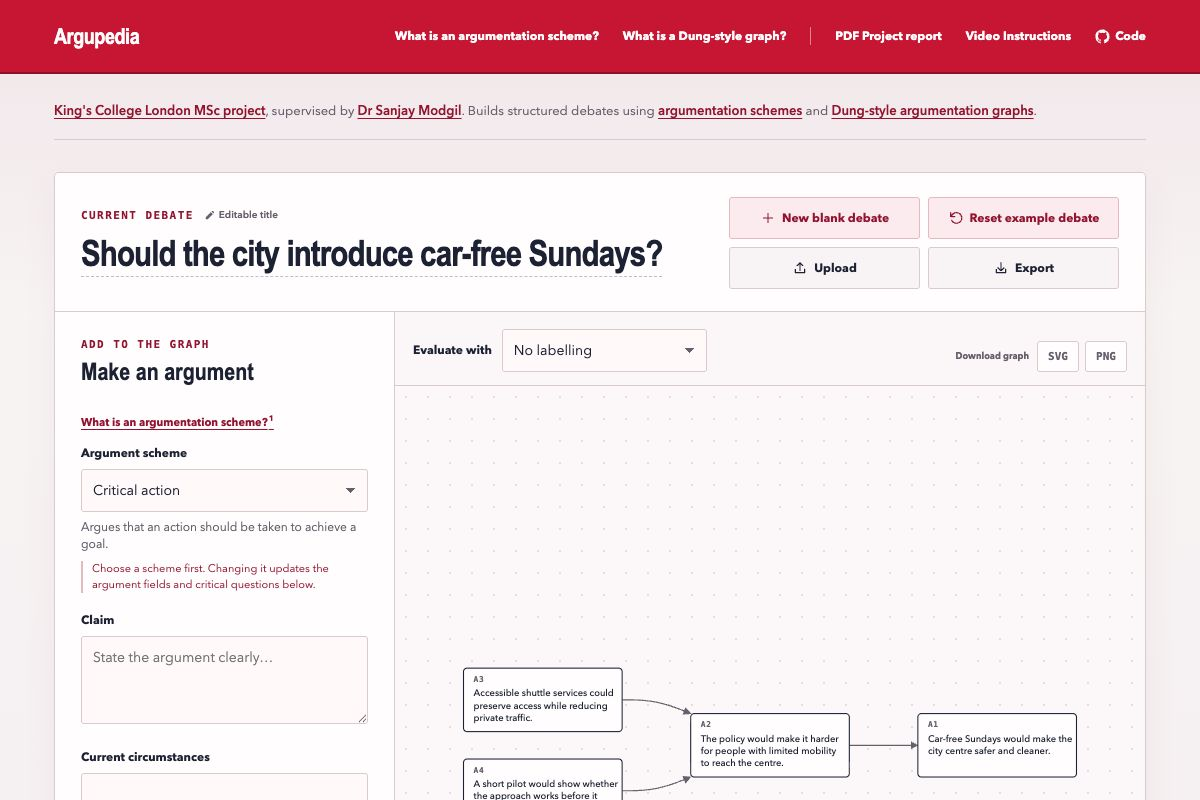
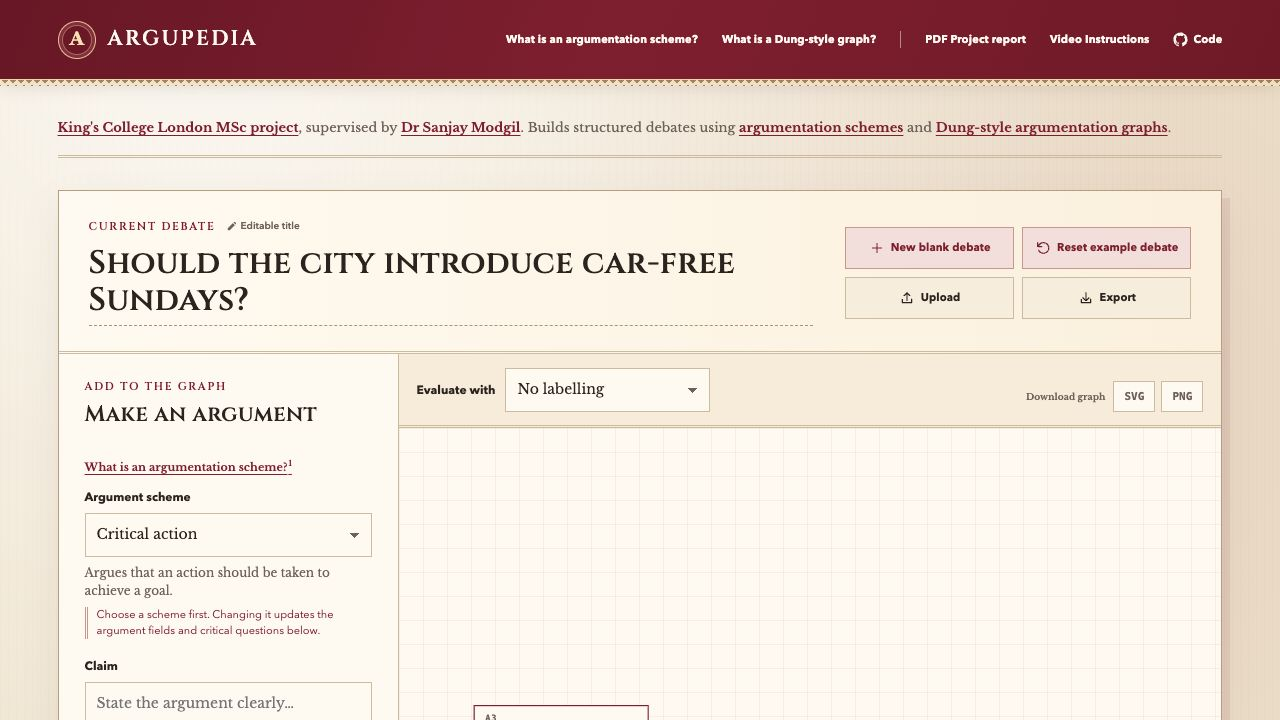
Give Argupedia a classical rhetoric identity

diff --git a/src/styles.css b/src/styles.css
@@ -1,114 +1,120 @@
 :root {
-  --paper: #f5f0f1;
-  --white: #fffdfd;
-  --ink: #1c2233;
-  --muted: #675f6c;
-  --line: #dac9cd;
+  --paper: #eee2cb;
+  --white: #fffaf0;
+  --ink: #2b231e;
+  --muted: #6e6157;
+  --line: #cdbb9d;
   --red: #c8102e;
-  --red-dark: #94112d;
+  --red-dark: #7f1d2d;
+  --bronze: #94652d;
+  --bronze-pale: #ead5aa;
   --accepted: #27724b;
   --accepted-pale: #dcefe4;
   --rejected: #9b3939;
   --rejected-pale: #f6dede;
   --undecided: #987828;
   --undecided-pale: #f7edc9;
-  --display: "Arial Narrow", "Avenir Next Condensed", "Helvetica Neue", sans-serif;
-  --body: "Avenir Next", Avenir, "Helvetica Neue", Arial, sans-serif;
+  --display: "Cinzel", Georgia, serif;
+  --body: "Libre Baskerville", Georgia, serif;
+  --ui: "Avenir Next", Avenir, "Helvetica Neue", Arial, sans-serif;
   --mono: ui-monospace, SFMono-Regular, Menlo, Consolas, monospace;
 }
 
 * { box-sizing: border-box; }
 html { scroll-behavior: smooth; }
-body { margin: 0; color: var(--ink); background: linear-gradient(180deg, #f0e5e8 0, #f7f3f3 310px, var(--paper) 760px); font-family: var(--body); line-height: 1.5; }
+body { margin: 0; color: var(--ink); background-color: var(--paper); background-image: radial-gradient(circle at 16% 0, rgba(255,255,255,.75), transparent 38%), radial-gradient(circle at 83% 18%, rgba(127,29,45,.07), transparent 32%), repeating-linear-gradient(90deg, rgba(96,70,43,.018) 0 1px, transparent 1px 8px); font-family: var(--body); line-height: 1.55; }
 button, input, textarea, select { font: inherit; }
 button, a { -webkit-tap-highlight-color: transparent; }
 a { color: var(--red-dark); text-decoration-thickness: 1px; text-underline-offset: 3px; }
 a:hover { color: var(--red); }
 :focus-visible { outline: 3px solid rgba(200, 16, 46, .3); outline-offset: 3px; }
 
-.site-header { min-height: 74px; display: flex; align-items: center; justify-content: space-between; gap: 30px; padding: 12px clamp(22px, 4.5vw, 70px); background: var(--red); border-bottom: 2px solid #8f0d28; position: relative; z-index: 20; }
+.site-header { min-height: 80px; display: flex; align-items: center; justify-content: space-between; gap: 30px; padding: 12px clamp(22px, 4.5vw, 70px); background: linear-gradient(110deg, #681624, var(--red-dark) 48%, #701825); border-bottom: 1px solid var(--bronze-pale); position: relative; z-index: 20; box-shadow: 0 5px 18px rgba(67,30,22,.16); }
+.site-header::after { content: ""; position: absolute; left: 0; right: 0; bottom: -7px; height: 6px; background: linear-gradient(135deg, var(--bronze) 25%, transparent 25%) -3px 0/8px 8px, linear-gradient(225deg, var(--bronze) 25%, transparent 25%) -3px 0/8px 8px, linear-gradient(315deg, var(--bronze) 25%, transparent 25%) 0 0/8px 8px, linear-gradient(45deg, var(--bronze) 25%, #f1e3c5 25%) 0 0/8px 8px; opacity: .75; }
 .brand-block { display: flex; align-items: center; min-width: 0; }
-.wordmark { font: 800 22px/1 var(--display); letter-spacing: -.02em; color: var(--white); text-decoration: none; }
+.brand-seal { width: 38px; height: 38px; flex: 0 0 38px; margin-right: 12px; display: grid; place-items: center; color: #f6dfae; border: 1px solid rgba(246,223,174,.85); border-radius: 50%; box-shadow: inset 0 0 0 3px rgba(127,29,45,.8), inset 0 0 0 4px rgba(246,223,174,.42); font: 600 19px/1 var(--display); }
+.wordmark { font: 600 21px/1 var(--display); letter-spacing: .115em; text-transform: uppercase; color: var(--white); text-decoration: none; }
 .wordmark:hover { color: var(--white); }
 .header-navigation { display: flex; align-items: center; min-width: 0; }
 .site-header nav { display: flex; align-items: center; gap: 24px; }
 .concept-nav { margin-right: 24px; padding-right: 24px; border-right: 1px solid rgba(255,255,255,.48); }
-.site-header nav a { color: var(--white); text-decoration: none; font-size: 12px; font-weight: 650; white-space: nowrap; }
+.site-header nav a { color: var(--white); text-decoration: none; font-family: var(--ui); font-size: 11px; font-weight: 650; letter-spacing: .015em; white-space: nowrap; }
 .site-header nav a:hover { text-decoration: underline; }
 .github-link { display: inline-flex; align-items: center; gap: 5px; }
 .github-link svg { width: 15px; height: 15px; fill: currentColor; }
 
-.section-label { margin: 0 0 20px; color: var(--red-dark); font: 700 11px/1.2 var(--mono); text-transform: uppercase; letter-spacing: .13em; }
-.button { border: 1px solid transparent; min-height: 42px; padding: 10px 17px; border-radius: 3px; cursor: pointer; font-size: 13px; font-weight: 700; text-decoration: none; display: inline-flex; align-items: center; justify-content: center; transition: background .15s, border-color .15s, transform .15s; }
+.section-label { margin: 0 0 20px; color: var(--red-dark); font: 600 11px/1.2 var(--display); text-transform: uppercase; letter-spacing: .16em; }
+.button { border: 1px solid transparent; min-height: 42px; padding: 10px 17px; border-radius: 0; cursor: pointer; font-family: var(--ui); font-size: 13px; font-weight: 700; text-decoration: none; display: inline-flex; align-items: center; justify-content: center; transition: background .15s, border-color .15s, transform .15s; }
 .button-primary { color: var(--white); background: var(--red); }
 .button-primary:hover { color: var(--white); background: var(--red-dark); }
 .button-quiet { color: var(--ink); background: var(--white); border-color: var(--line); }
 .button-quiet:hover { color: var(--red-dark); border-color: var(--red); }
-.button-replace { color: var(--red-dark); background: #fbebee; border-color: #e7b7c0; }
-.button-replace:hover { color: var(--red-dark); background: #f7dce2; border-color: var(--red); }
-.button-file { color: var(--ink); background: #f8f3f4; border-color: var(--line); }
+.button-replace { color: var(--red-dark); background: #f2dfda; border-color: #c9958e; }
+.button-replace:hover { color: var(--red-dark); background: #ead0c9; border-color: var(--red); }
+.button-file { color: var(--ink); background: #f7eddc; border-color: var(--line); }
 .button-file:hover { color: var(--red-dark); background: var(--white); border-color: var(--red); }
 .button-full { width: 100%; margin-top: 8px; }
 
-.workspace { padding: 28px clamp(18px, 4.5vw, 70px) 48px; max-width: 1680px; margin: auto; }
-.project-context { margin: 0 0 32px; padding: 0 0 17px; color: var(--muted); border-bottom: 1px solid var(--line); font-size: 13px; }
+.workspace { padding: 38px clamp(18px, 4.5vw, 70px) 54px; max-width: 1680px; margin: auto; }
+.project-context { margin: 0 0 32px; padding: 0 0 17px; color: var(--muted); border-bottom: 3px double var(--line); font-size: 13px; }
 .project-context p { margin: 0; }
 .project-context a { font-weight: 600; }
-.debate-console { background: var(--white); border: 1px solid var(--line); border-radius: 5px; box-shadow: 0 10px 30px rgba(112, 20, 43, .055); overflow: hidden; }
-.workspace-header { display: flex; align-items: center; justify-content: space-between; gap: 32px; padding: 24px 26px 22px; border-bottom: 1px solid var(--line); background: var(--white); }
+.debate-console { position: relative; background: var(--white); border: 1px solid #b79e7d; border-radius: 0; box-shadow: 8px 8px 0 rgba(127,29,45,.09), 0 14px 36px rgba(73,48,31,.08); overflow: hidden; }
+.debate-console::before { content: ""; position: absolute; inset: 5px; z-index: 5; border: 1px solid rgba(148,101,45,.24); pointer-events: none; }
+.workspace-header { position: relative; z-index: 6; display: flex; align-items: center; justify-content: space-between; gap: 32px; padding: 28px 30px 25px; border-bottom: 3px double var(--line); background: linear-gradient(90deg, #fffaf0, #fbf0dc); }
 .workspace-header .section-label { margin-bottom: 10px; }
 .debate-title-meta { display: flex; align-items: center; gap: 10px; margin-bottom: 10px; }
 .debate-title-meta .section-label { margin: 0; }
-.editable-title-hint { display: inline-flex; align-items: center; gap: 4px; color: var(--muted); font-size: 10px; font-weight: 600; }
+.editable-title-hint { display: inline-flex; align-items: center; gap: 4px; color: var(--muted); font-family: var(--ui); font-size: 10px; font-weight: 600; }
 .editable-title-hint svg { width: 11px; height: 11px; fill: currentColor; }
-#workspace-title { min-width: 260px; margin: 0; padding-bottom: 3px; font: 750 clamp(27px, 3vw, 42px)/1.12 var(--display); letter-spacing: -.025em; border-bottom: 1px dashed #b7c0cc; cursor: text; }
+#workspace-title { min-width: 260px; margin: 0; padding-bottom: 5px; font: 600 clamp(24px, 2.5vw, 36px)/1.18 var(--display); letter-spacing: .015em; border-bottom: 1px dashed #af9271; cursor: text; }
 #workspace-title:hover, #workspace-title:focus { border-bottom-color: var(--red); }
 .file-actions { display: grid; grid-template-columns: repeat(2, minmax(155px, 1fr)); gap: 8px; width: min(100%, 390px); margin-left: auto; }
-.file-actions .button { width: 100%; gap: 6px; padding-inline: 8px; font-size: 12px; }
+.file-actions .button { width: 100%; gap: 6px; padding-inline: 8px; font-size: 11px; letter-spacing: .01em; }
 .file-actions .button svg { width: 16px; height: 16px; flex: 0 0 auto; fill: none; stroke: currentColor; stroke-width: 1.8; stroke-linecap: round; stroke-linejoin: round; }
 .workspace-grid { display: grid; grid-template-columns: minmax(265px, 340px) minmax(0, 1fr); gap: 0; align-items: stretch; }
-.composer, .graph-panel, .argument-list-section { background: var(--white); }
+.composer, .graph-panel, .argument-list-section { position: relative; z-index: 6; background: var(--white); }
 .composer { padding: 26px; }
 .composer { border-right: 1px solid var(--line); }
-.panel-heading h3 { margin: 0 0 24px; font: 750 24px/1.1 var(--display); }
+.panel-heading h3 { margin: 0 0 24px; font: 600 22px/1.25 var(--display); letter-spacing: .02em; }
 .panel-heading .section-label { margin-bottom: 8px; }
 .scheme-guide-link { display: inline-block; margin-bottom: 2px; color: var(--red-dark); font-size: 11px; font-weight: 650; }
 .scheme-guide-link sup { margin-left: 1px; font-size: .72em; text-decoration: none; }
 .scheme-guide-link + label { margin-top: 10px; }
-label { display: block; color: var(--ink); font-size: 12px; font-weight: 700; margin: 17px 0 7px; }
-textarea, input:not([type="checkbox"]), select { width: 100%; color: var(--ink); background: #fff9fa; border: 1px solid var(--line); border-radius: 3px; padding: 10px 11px; font-size: 14px; }
+label { display: block; color: var(--ink); font-family: var(--ui); font-size: 12px; font-weight: 700; margin: 17px 0 7px; }
+textarea, input:not([type="checkbox"]), select { width: 100%; color: var(--ink); background: #fffaf0; border: 1px solid var(--line); border-radius: 0; padding: 10px 11px; font-size: 14px; }
 textarea { resize: vertical; min-height: 88px; }
 select { appearance: none; background-image: linear-gradient(45deg,transparent 50%,var(--muted) 50%),linear-gradient(135deg,var(--muted) 50%,transparent 50%); background-position: calc(100% - 16px) 50%,calc(100% - 11px) 50%; background-size: 5px 5px; background-repeat: no-repeat; padding-right: 28px; }
 .field-help { margin: 7px 0 15px; color: var(--muted); font-size: 12px; line-height: 1.45; }
-.structure-note { margin: -7px 0 18px; padding-left: 9px; color: var(--red-dark); border-left: 2px solid #e7b7c0; font-size: 11px; line-height: 1.45; }
+.structure-note { margin: -7px 0 18px; padding-left: 9px; color: var(--red-dark); border-left: 3px double #c9958e; font-family: var(--ui); font-size: 11px; line-height: 1.45; }
 .check-row { display: flex; align-items: flex-start; gap: 9px; font-weight: 500; line-height: 1.35; cursor: pointer; }
 .check-row input { margin-top: 2px; accent-color: var(--red); }
 
 .graph-panel { min-height: 690px; display: grid; grid-template-rows: auto minmax(510px, 1fr) auto; overflow: hidden; }
-.graph-toolbar { min-height: 74px; padding: 13px 18px; display: flex; align-items: end; gap: 14px; border-bottom: 1px solid var(--line); background: #fbf6f7; }
+.graph-toolbar { min-height: 74px; padding: 13px 18px; display: flex; align-items: end; gap: 14px; border-bottom: 3px double var(--line); background: #f7ecd9; }
 .graph-toolbar label { margin: 0 0 5px; }
 .semantics-control { width: auto; display: flex; align-items: center; gap: 10px; }
 .semantics-control label { margin: 0; white-space: nowrap; }
 .semantics-control select { width: 205px; }
 .extension-control { width: 170px; }
 .graph-actions { display: flex; align-items: center; margin-left: auto; }
-.graph-view-controls { position: absolute; right: 15px; bottom: 15px; z-index: 2; display: flex; align-items: center; gap: 9px; padding: 5px 6px 5px 10px; background: rgba(255,255,255,.94); border: 1px solid var(--line); border-radius: 3px; box-shadow: 0 2px 8px rgba(21,34,56,.07); }
+.graph-view-controls { position: absolute; right: 15px; bottom: 15px; z-index: 2; display: flex; align-items: center; gap: 9px; padding: 5px 6px 5px 10px; background: rgba(255,250,240,.94); border: 1px solid var(--line); border-radius: 0; box-shadow: 3px 3px 0 rgba(127,29,45,.06); }
 .graph-control-divider { align-self: stretch; width: 1px; background: var(--line); }
 .graph-export-controls { display: flex; align-items: center; gap: 6px; }
 .graph-export-controls > span { margin-right: 2px; color: var(--muted); font-size: 9px; font-weight: 650; line-height: 1; white-space: nowrap; }
 .graph-export-controls .icon-button { height: 31px; }
 .graph-hint { align-self: center; margin-right: 4px; color: var(--muted); font-size: 10px; white-space: nowrap; }
-.icon-button { height: 37px; min-width: 42px; color: var(--muted); background: var(--white); border: 1px solid var(--line); border-radius: 3px; cursor: pointer; font: 700 11px/1 var(--mono); }
+.icon-button { height: 37px; min-width: 42px; color: var(--muted); background: var(--white); border: 1px solid var(--line); border-radius: 0; cursor: pointer; font: 700 11px/1 var(--mono); }
 .icon-button:hover { color: var(--red-dark); border-color: var(--red); }
-.graph-stage { position: relative; min-height: 510px; overflow: hidden; background-color: #fcf8f9; background-image: radial-gradient(circle, #ead8dc 1px, transparent 1.1px); background-size: 22px 22px; }
+.graph-stage { position: relative; min-height: 510px; overflow: hidden; background-color: #fffaf0; background-image: linear-gradient(rgba(148,101,45,.075) 1px, transparent 1px), linear-gradient(90deg, rgba(148,101,45,.075) 1px, transparent 1px); background-size: 24px 24px; }
 #debate-graph { display: block; width: 100%; height: 100%; min-height: 510px; cursor: grab; }
 #debate-graph:active { cursor: grabbing; }
-.argument-node rect { fill: var(--white); stroke: var(--ink); stroke-width: 1.5; }
+.argument-node rect { fill: var(--white); stroke: var(--red-dark); stroke-width: 1.5; }
 .argument-node.status-in rect { fill: var(--accepted-pale); stroke: var(--accepted); }
 .argument-node.status-out rect { fill: var(--rejected-pale); stroke: var(--rejected); }
 .argument-node.status-undec rect { fill: var(--undecided-pale); stroke: var(--undecided); }
 .node-id { font: 600 11px var(--mono); fill: var(--muted); letter-spacing: .08em; }
-.node-claim { font: 500 13px var(--body); fill: var(--ink); }
+.node-claim { font: 400 13px var(--body); fill: var(--ink); }
 .attack-edge { fill: none; stroke: var(--muted); stroke-width: 1.6; }
 .attack-edge.conflicting { stroke: var(--rejected); stroke-dasharray: 5 4; }
 #attack-arrow path { fill: var(--muted); }
@@ -117,14 +123,14 @@ select { appearance: none; background-image: linear-gradient(45deg,transparent 5
 .graph-empty p { margin: 0; font: 700 23px var(--display); }
 .graph-empty span { color: var(--muted); font-size: 13px; }
 .graph-busy { z-index: 3; color: var(--red-dark); font: 700 12px var(--mono); text-transform: uppercase; letter-spacing: .08em; }
-.results { min-height: 88px; padding: 15px 20px; border-top: 1px solid var(--line); background: var(--white); }
-.legend { display: flex; gap: 17px; color: var(--muted); font-size: 11px; }
+.results { min-height: 88px; padding: 15px 20px; border-top: 3px double var(--line); background: #fffaf0; }
+.legend { display: flex; gap: 17px; color: var(--muted); font-family: var(--ui); font-size: 11px; }
 .legend span { display: inline-flex; align-items: center; gap: 6px; }
 .legend i { width: 9px; height: 9px; border-radius: 50%; }
 .status-in { background: var(--accepted); }.status-out { background: var(--rejected); }.status-undec { background: var(--undecided); }
 #result-copy { margin: 9px 0 0; color: var(--ink); font-size: 13px; }
 
-.argument-list-section { padding: 25px 28px; border-top: 1px solid var(--line); }
+.argument-list-section { padding: 28px 30px; border-top: 3px double var(--line); }
 .inline-heading { display: flex; justify-content: space-between; align-items: end; border-bottom: 1px solid var(--line); padding-bottom: 15px; }
 .inline-heading h3 { margin: 0; }
 #argument-count { color: var(--muted); font: 600 11px var(--mono); text-transform: uppercase; letter-spacing: .08em; }
@@ -138,9 +144,10 @@ select { appearance: none; background-image: linear-gradient(45deg,transparent 5
 .remove-argument:hover { color: var(--rejected); }
 
 .concept-notes { margin-top: 28px; }
-.concept-notes article { padding: 28px 0; border-top: 1px solid var(--line); scroll-margin-top: 18px; }
-.concept-notes article:last-child { border-bottom: 1px solid var(--line); }
-.concept-notes h3 { margin: 0 0 11px; font: 700 20px/1.25 var(--display); }
+.concept-notes article { position: relative; padding: 32px 0; border-top: 3px double var(--line); scroll-margin-top: 18px; }
+.concept-notes article::before { content: "◆"; position: absolute; top: -10px; left: 50%; padding: 0 10px; color: var(--bronze); background: var(--paper); font-size: 12px; transform: translateX(-50%); }
+.concept-notes article:last-child { border-bottom: 3px double var(--line); }
+.concept-notes h3 { margin: 0 0 13px; font: 600 20px/1.35 var(--display); letter-spacing: .025em; }
 .concept-notes p { margin: 0; color: var(--muted); font-size: 13px; }
 .concept-notes p + p { margin-top: 9px; }
 .concept-notes a { font-weight: 600; }
@@ -150,7 +157,7 @@ select { appearance: none; background-image: linear-gradient(45deg,transparent 5
 .source-note sup { color: var(--red-dark); font: 700 9px/1 var(--mono); }
 .source-note span { font-weight: 650; }
 
-.toast { position: fixed; left: 50%; bottom: 24px; z-index: 50; padding: 12px 17px; color: white; background: var(--ink); border-radius: 3px; font-size: 13px; transform: translate(-50%, 20px); opacity: 0; pointer-events: none; transition: .2s ease; }
+.toast { position: fixed; left: 50%; bottom: 24px; z-index: 50; padding: 12px 17px; color: white; background: var(--ink); border: 1px solid var(--bronze); border-radius: 0; font-size: 13px; transform: translate(-50%, 20px); opacity: 0; pointer-events: none; transition: .2s ease; }
 .toast.visible { transform: translate(-50%, 0); opacity: 1; }
 .toast.error { background: var(--rejected); }
 
@@ -165,8 +172,10 @@ select { appearance: none; background-image: linear-gradient(45deg,transparent 5
 }
 
 @media (max-width: 620px) {
-  .site-header { min-height: 62px; padding-top: 10px; padding-bottom: 10px; }
-  .project-nav { gap: 14px !important; }
+  .site-header { min-height: 62px; gap: 12px; padding-top: 10px; padding-bottom: 10px; }
+  .brand-seal { width: 30px; height: 30px; flex-basis: 30px; margin-right: 8px; font-size: 15px; }
+  .wordmark { font-size: 17px; letter-spacing: .08em; }
+  .project-nav { gap: 10px !important; }
   .project-nav a:nth-child(2) { display: none; }
   .workspace { padding-top: 20px; }
   .project-context { margin-bottom: 24px; font-size: 12px; }

diff --git a/src/graph.js b/src/graph.js
@@ -41,7 +41,7 @@ export class DebateGraph {
     for (const argument of debate.arguments) {
       const position = layout.node(argument.id);
       const group = nodes.append("g").attr("class", `argument-node status-${labels[argument.id] || "neutral"}`).attr("transform", `translate(${position.x - NODE_WIDTH / 2},${position.y - NODE_HEIGHT / 2})`);
-      group.append("rect").attr("width", NODE_WIDTH).attr("height", NODE_HEIGHT).attr("rx", 5);
+      group.append("rect").attr("width", NODE_WIDTH).attr("height", NODE_HEIGHT);
       group.append("text").attr("class", "node-id").attr("x", 14).attr("y", 19).text(`A${debate.arguments.indexOf(argument) + 1}`);
       const claim = wrapText(argument.claim, 33, 3);
       const text = group.append("text").attr("class", "node-claim").attr("x", 14).attr("y", 39);
@@ -74,7 +74,7 @@ export class DebateGraph {
     clone.setAttribute("height", String(this.bounds.height));
     clone.setAttribute("viewBox", `0 0 ${this.bounds.width} ${this.bounds.height}`);
     const style = document.createElementNS("http://www.w3.org/2000/svg", "style");
-    style.textContent = `.argument-node rect{fill:#fff;stroke:#152238;stroke-width:1.5}.argument-node.status-in rect{fill:#dcefe4;stroke:#27724b}.argument-node.status-out rect{fill:#f6dede;stroke:#9b3939}.argument-node.status-undec rect{fill:#f7edc9;stroke:#987828}.node-id{font:600 11px ui-monospace,monospace;fill:#566378;letter-spacing:.08em}.node-claim{font:500 13px Arial,sans-serif;fill:#152238}.attack-edge{fill:none;stroke:#566378;stroke-width:1.6}.attack-edge.conflicting{stroke:#9b3939;stroke-dasharray:5 4}#attack-arrow path{fill:#566378}`;
+    style.textContent = `.argument-node rect{fill:#fffaf0;stroke:#7f1d2d;stroke-width:1.5}.argument-node.status-in rect{fill:#dcefe4;stroke:#27724b}.argument-node.status-out rect{fill:#f6dede;stroke:#9b3939}.argument-node.status-undec rect{fill:#f7edc9;stroke:#987828}.node-id{font:600 11px ui-monospace,monospace;fill:#6e6157;letter-spacing:.08em}.node-claim{font:400 13px Georgia,serif;fill:#2b231e}.attack-edge{fill:none;stroke:#6e6157;stroke-width:1.6}.attack-edge.conflicting{stroke:#9b3939;stroke-dasharray:5 4}#attack-arrow path{fill:#6e6157}`;
     clone.insertBefore(style, clone.firstChild);
     return clone;
   }

diff --git a/index.html b/index.html
@@ -4,18 +4,22 @@
     <meta charset="UTF-8" />
     <meta name="viewport" content="width=device-width, initial-scale=1.0" />
     <meta name="description" content="Build structured debates, visualise them as Dung-style argumentation frameworks, and evaluate grounded, complete and preferred semantics." />
-    <meta name="theme-color" content="#f4f6f8" />
+    <meta name="theme-color" content="#7f1d2d" />
     <meta property="og:title" content="Argupedia — structured debate, mapped" />
     <meta property="og:description" content="A browser-based AI argumentation project developed at King's College London." />
     <meta property="og:type" content="website" />
     <meta property="og:image" content="https://humphreycurtis.github.io/Argupedia/assets/argupedia-social-preview.png" />
     <link rel="canonical" href="https://humphreycurtis.github.io/Argupedia/" />
     <link rel="icon" href="./images/favicon.ico" />
+    <link rel="preconnect" href="https://fonts.googleapis.com" />
+    <link rel="preconnect" href="https://fonts.gstatic.com" crossorigin />
+    <link href="https://fonts.googleapis.com/css2?family=Cinzel:wght@500;600;700&amp;family=Libre+Baskerville:ital,wght@0,400;0,700;1,400&amp;display=swap" rel="stylesheet" />
     <title>Argupedia — structured debate, mapped</title>
   </head>
   <body>
     <header class="site-header">
       <div class="brand-block">
+        <span class="brand-seal" aria-hidden="true">Α</span>
         <a class="wordmark" href="#top" aria-label="Argupedia home">Argupedia</a>
       </div>
       <div class="header-navigation">
